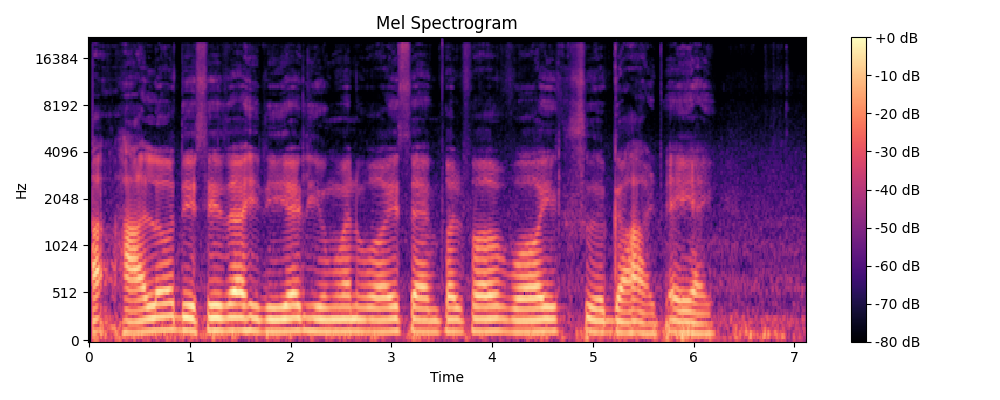
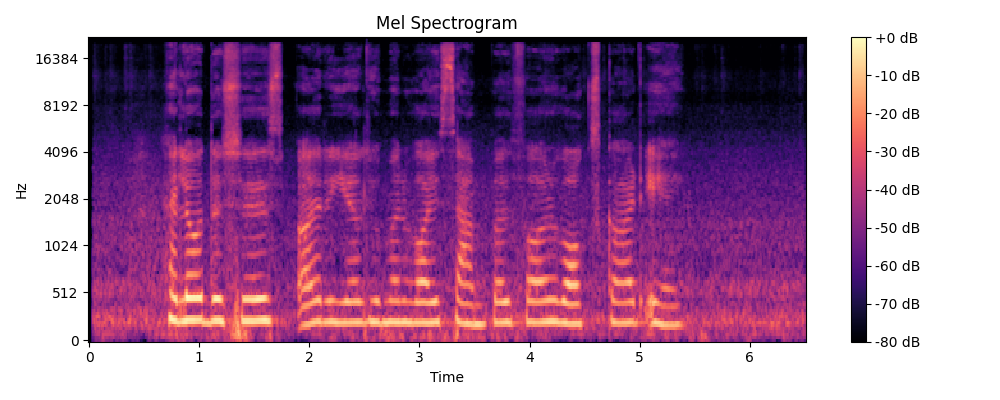
Prepared VoxGuard for deployment

diff --git a/backend/models/predict.py b/backend/models/predict.py
@@ -11,23 +11,39 @@ def predict_voice(features):
 
     features = np.array(features).reshape(1, -1)
 
-    prediction = model.predict(features)[0]
-
     probabilities = model.predict_proba(
         features
     )[0]
 
+    real_confidence = (
+        probabilities[0] * 100
+    )
+
+    fake_confidence = (
+        probabilities[1] * 100
+    )
+
     confidence = round(
-        max(probabilities) * 100,
+        max(
+            real_confidence,
+            fake_confidence
+        ),
         2
     )
 
-    label = (
-        "AI-GENERATED"
-        if prediction == 1
-        else "REAL"
-    )
+    # Smart threshold logic
+    if confidence < 65:
 
+        label = "SUSPICIOUS"
+
+    elif fake_confidence > real_confidence:
+
+        label = "AI-GENERATED"
+
+    else:
+
+        label = "REAL"
+        
     return {
         "prediction": label,
         "confidence": confidence,

diff --git a/backend/core/audio_explanations.py b/backend/core/audio_explanations.py
@@ -24,6 +24,22 @@ def generate_audio_explanations(
                 "Model confidence is extremely high"
             )
 
+    elif prediction == "SUSPICIOUS":
+
+        explanations.append(
+            "Uncertain vocal authenticity detected"
+        )
+
+        explanations.append(
+            "Synthetic speech indicators partially observed"
+        )
+
+        if confidence < 70:
+
+            explanations.append(
+                "Confidence below trusted threshold"
+            )
+
     else:
 
         explanations.append(

diff --git a/backend/core/risk_engine.py b/backend/core/risk_engine.py
@@ -12,6 +12,10 @@ def calculate_authenticity_risk(
 
         risk_score += 50
 
+    # Suspicious audio boost
+    elif prediction == "SUSPICIOUS":
+
+        risk_score += 35
     # Confidence boost
     if confidence > 85:
 